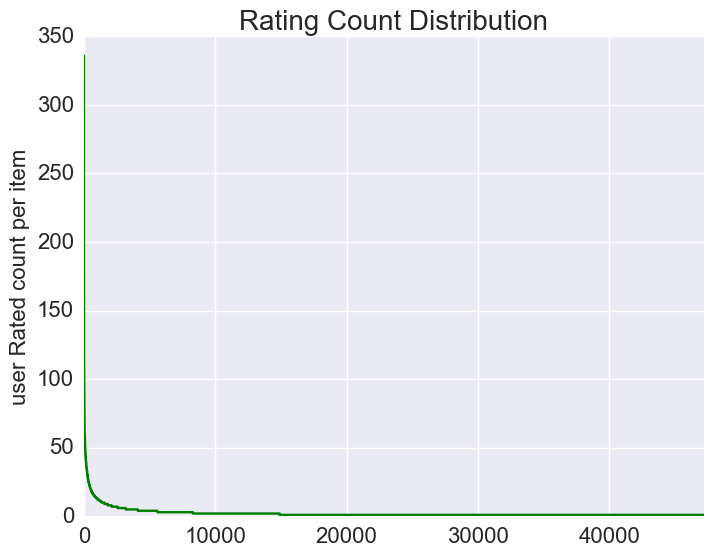
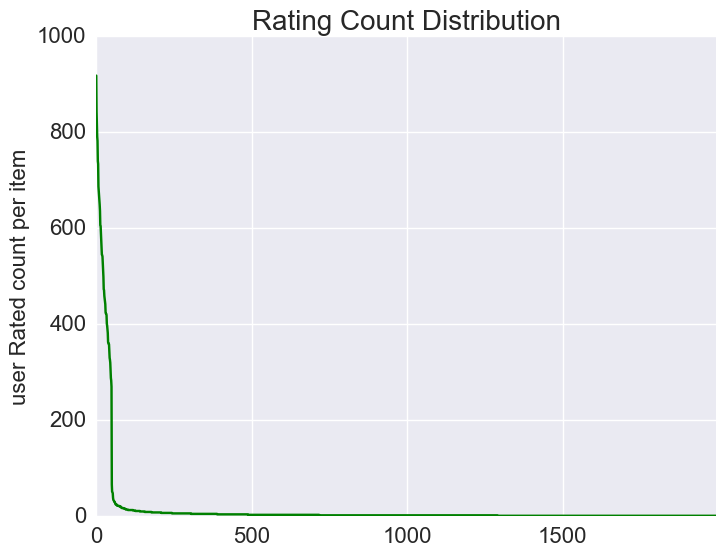
update

diff --git a/visual/visualization/analysis.html b/visual/visualization/analysis.html
@@ -2,15 +2,15 @@
 <link rel='stylesheet' type='text/css' href='reportStyle.css'/></head>
 <body><div class='reportTitle'><div class='in'>Data Analysis</div></div>
 <div class='main'><div class='area1'>
-<div class='title'><h3>Data Files</h3></div><div class='text'><b>Rating Data</b>: C:\Users\Yu\Desktop\RecQ\dataset\epinions\sample-ratings.txt<br><b>Social Data</b>: C:\Users\Yu\Desktop\RecQ\dataset\epinions\sample-trusts.txt</div></div><div style='padding-top:20px'><center><img src='images/header2.png'/></center></div>
+<div class='title'><h3>Data Files</h3></div><div class='text'><b>Rating Data</b>: C:\Users\123\Documents\GitHub\RecQ\dataset\FilmTrust\trainset.txt<br><b>Social Data</b>: C:\Users\123\Documents\GitHub\RecQ\dataset\FilmTrust\testset.txt</div></div><div style='padding-top:20px'><center><img src='images/header2.png'/></center></div>
 <div class='area1'><div class='title'><h3>Rating Data</h3></div>
-<div class='text'><b>Rating Scale</b>: 1.0 2.0 3.0 4.0 5.0</br><b>User Count</b>: 16142<br><b>Item Count</b>: 47204<br><b>Record Count</b>: 109880<br><b>Global Mean</b>: 4.025</div>
+<div class='text'><b>Rating Scale</b>: 0.5 1.0 1.5 2.0 2.5 3.0 3.5 4.0</br><b>User Count</b>: 1494<br><b>Item Count</b>: 1994<br><b>Record Count</b>: 31851<br><b>Global Mean</b>: 3.105</div>
 <center><div class='img'><img src='images/rh.png' width='640px' height='480px'/></div></center>
 <center><div class='img'><img src='images/rcu.png' width='640px' height='480px'/></div></center>
 <center><div class='img'><img src='images/rci.png' width='640px' height='480px'/></div></center>
 </div><div style='padding-top:20px'><center><img src='images/header2.png'/></center></div>
 <div class='area1'><div class='title'><h3>Social Data</h3></div>
-<div class='text'><b>User Count</b>: 18906<br><b>Relation Count</b>: 113235<br></div>
+<div class='text'><b>User Count</b>: 1300<br><b>Relation Count</b>: 3646<br></div>
 <center><div class='img'><img src='images/ff.png' width='640px' height='480px'/></div></center>
 <center><div class='img'><img src='images/fd1.png' width='640px' height='480px'/></div></center>
 <center><div class='img'><img src='images/fd2.png' width='640px' height='480px'/></div></center>

diff --git a/algorithm/rating/TrustMF.py b/algorithm/rating/TrustMF.py
@@ -1,0 +1,122 @@
+#!/usr/bin/env python
+# -*- coding: utf-8 -*-
+# @File    : TrustMF.py
+
+from baseclass.SocialRecommender import SocialRecommender
+import numpy as np
+from tool import config
+
+class TrustMF(SocialRecommender):
+    def __init__(self,conf):
+        super(TrustMF, self).__init__(conf)
+
+    def initModel(self):
+        super(TrustMF, self).initModel()
+
+    def readConfiguration(self):
+        super(SocialRecommender, self).readConfiguration()
+        regular = config.LineConfig(self.config['reg.lambda'])
+        self.regB=float(regular['-b'])
+        self.regT=float(regular['-t'])
+
+    def buildModel(self):
+        self.Br = np.random.rand(self.dao.trainingSize()[0], self.k)  # latent user matrix
+        self.Wr = np.random.rand(self.dao.trainingSize()[0], self.k)  # latent item matrix
+        self.Vr = np.random.rand(self.dao.trainingSize()[1], self.k)  # latent item matrix
+        self.trusterModel()
+        # self.Be = np.random.rand(self.sao.trustSize()[0], self.k)  # latent user matrix
+        # self.We = np.random.rand(self.sao.trustSize()[0], self.k)  # latent item matrix
+        # self.Ve = np.random.rand(self.dao.trainingSize()[1], self.k)  # latent item matrix
+        # self.trusteeModel()
+
+    def trusterModel(self):
+        iteration = 0
+        while iteration < self.maxIter:
+            self.loss = 0
+            for entry in self.dao.trainingData:
+                u, i, r = entry
+                mbu=len(self.sao.getFollowees(u))
+                uid = self.dao.getUserId(u)
+                iid = self.dao.getItemId(i)
+                error = r-self.predict(uid,iid)
+                nbu=len(self.dao.userRated(uid)[0])
+                nvi=len(self.dao.itemRated(iid)[0])
+                self.loss+=error**2+self.regB*((mbu+nbu)*self.Br[uid].dot(self.Br[uid])+nvi*self.Vr[iid].dot(self.Vr[iid]))
+                self.Br[uid]=self.Br[uid]-self.lRate*(error*self.Vr[iid]+self.regB*(mbu+nbu)*self.Br[uid])
+                self.Vr[iid]=self.Vr[iid]-self.lRate*(error*self.Br[uid]+self.regB*nvi*self.Vr[iid])
+
+            for entry in self.sao.relation:
+                user1,user2,weight=entry
+                mwk=len(self.sao.getFollowers(user2))
+
+                u1 = self.dao.user[user1]
+                u2 = self.dao.user[user2]
+
+                error = weight-self.Br[u1].dot(self.Wr[u2])
+                self.loss+=self.regT*error**2+self.regB*mwk*self.Wr[u2].dot(self.Wr[u2])
+                self.Br[u1]=self.Br[u1]-self.lRate*(self.regT*(self.Br[u1].dot(self.Wr[u2])-self.sao.elem(u1,u2))*self.Wr[u2])
+                self.Wr[u2]=self.Wr[u2]-self.lRate*(self.regT*error*self.Br[u1]+self.regB*mwk*self.Wr[u2])
+
+            iteration += 1
+            self.isConverged(iteration)
+
+    # def trusteeModel(self):
+    #     iteration = 0
+    #     while iteration < self.maxIter:
+    #         self.loss = 0
+    #         for entry in self.dao.trainingData:
+    #             u, i, r = entry
+    #             mwu=len(self.sao.getFollowers(u))
+    #             u = self.dao.getUserId(u)
+    #             i = self.dao.getItemId(i)
+    #             error = r-self.predict2(u,i)
+    #             nwu=len(self.dao.userRated(u)[0])
+    #             nvi=len(self.dao.itemRated(i)[0])
+    #             self.loss+=error**2+self.regB*((mwu+nwu)*self.We[u].dot(self.We[u])+nvi*self.Ve[i].dot(self.Ve[i]))
+    #
+    #             self.We[u]=self.We[u]-self.lRate*(error*self.Ve[i]+self.regB*(mwu+nwu)*self.We[u])
+    #             self.Ve[i]=self.Ve[i]-self.lRate*(error*self.Be[u]+self.regB*nvi*self.Ve[i])
+    #
+    #         for entry in self.sao.relation:
+    #             user1,user2,weight=entry
+    #             mbk=len(self.sao.getFollowees(user2))
+    #             u1 = self.dao.getUserId(user1)
+    #             u2 = self.dao.getItemId(user2)
+    #             error = weight-self.sao.B[u1].dot(self.sao.W[u2])
+    #             self.loss+=self.regT*error**2+self.regB*mbk*self.Be[u1].dot(self.Be[u1])
+    #             self.We[u]=self.We[u]-self.lRate*(error*self.Be[u1])
+    #             self.Be[u1]=self.Be[u1]-self.lRate*(self.regT*error*self.dao.W[u2]+self.regB*mbk*self.Be[u1])
+    #
+    #         iteration += 1
+    #         self.isConverged(iteration)
+
+    def predict(self,u,i):
+        if self.dao.containsUser(u) and self.dao.containsItem(i):
+            u = self.dao.getUserId(u)
+            i = self.dao.getItemId(i)
+            return self.Br[u].dot(self.Vr[i])
+        else:
+            return self.dao.globalMean
+
+    def predict1(self,u,i):
+        if self.dao.containsUser(u) and self.dao.containsItem(i):
+            u = self.dao.getUserId(u)
+            i = self.dao.getItemId(i)
+            return self.Br[u].dot(self.Vr[i])
+        else:
+            return self.dao.globalMean
+
+    # def predict2(self,u,i):
+    #     if self.dao.containsUser(u) and self.dao.containsItem(i):
+    #         u = self.dao.getUserId(u)
+    #         i = self.dao.getItemId(i)
+    #         return self.We[u].dot(self.Ve[i])
+    #     else:
+    #         return self.dao.globalMean
+    # def predict3(self,u1,u2):
+    #     if self.sao.user.has_key(u1) and self.sao.user.has_key(u2):
+    #         u1 = self.sao.user[u1]
+    #         u2 = self.sao.user[u2]
+    #         return self.Be[u1].dot(self.Ve[u2])
+    #     else:
+    #         return 0
